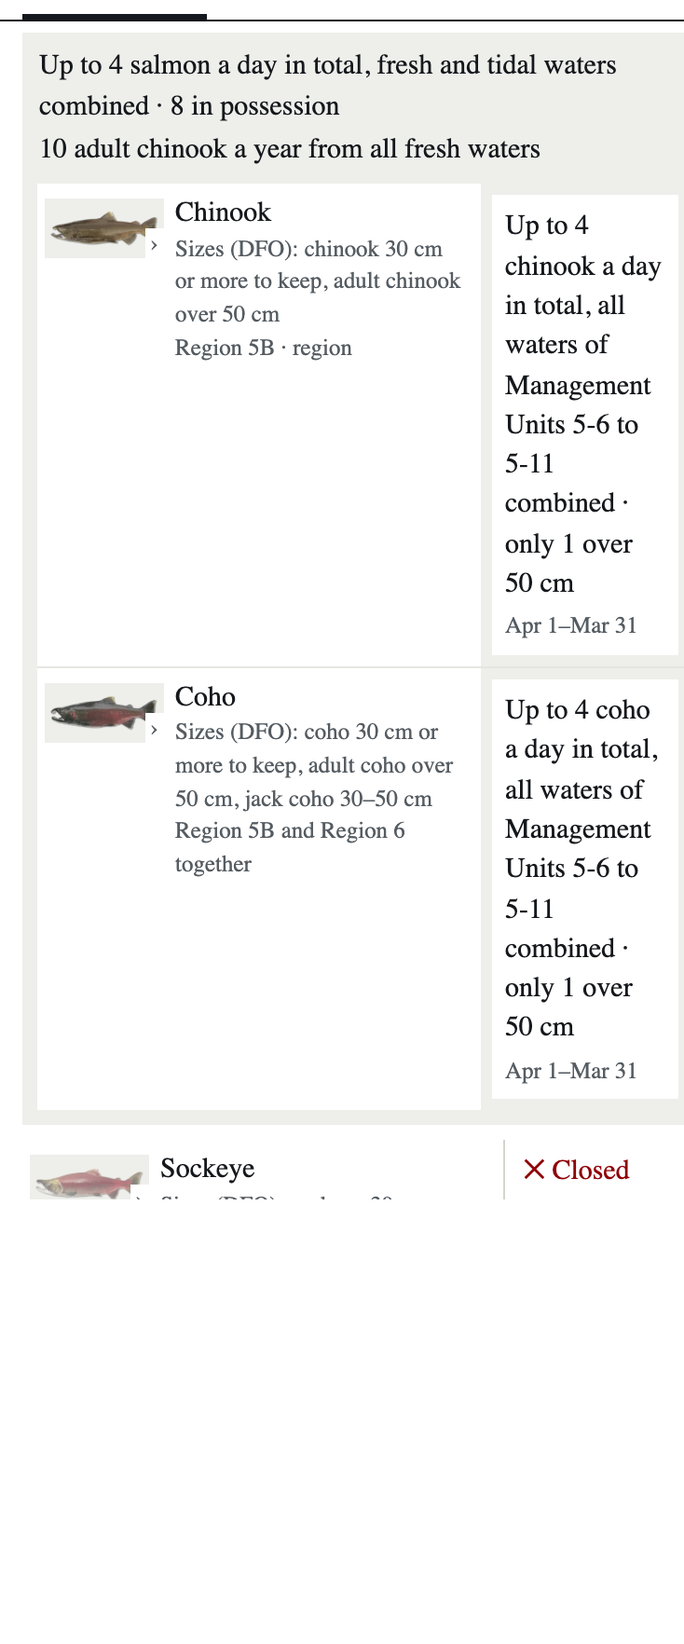
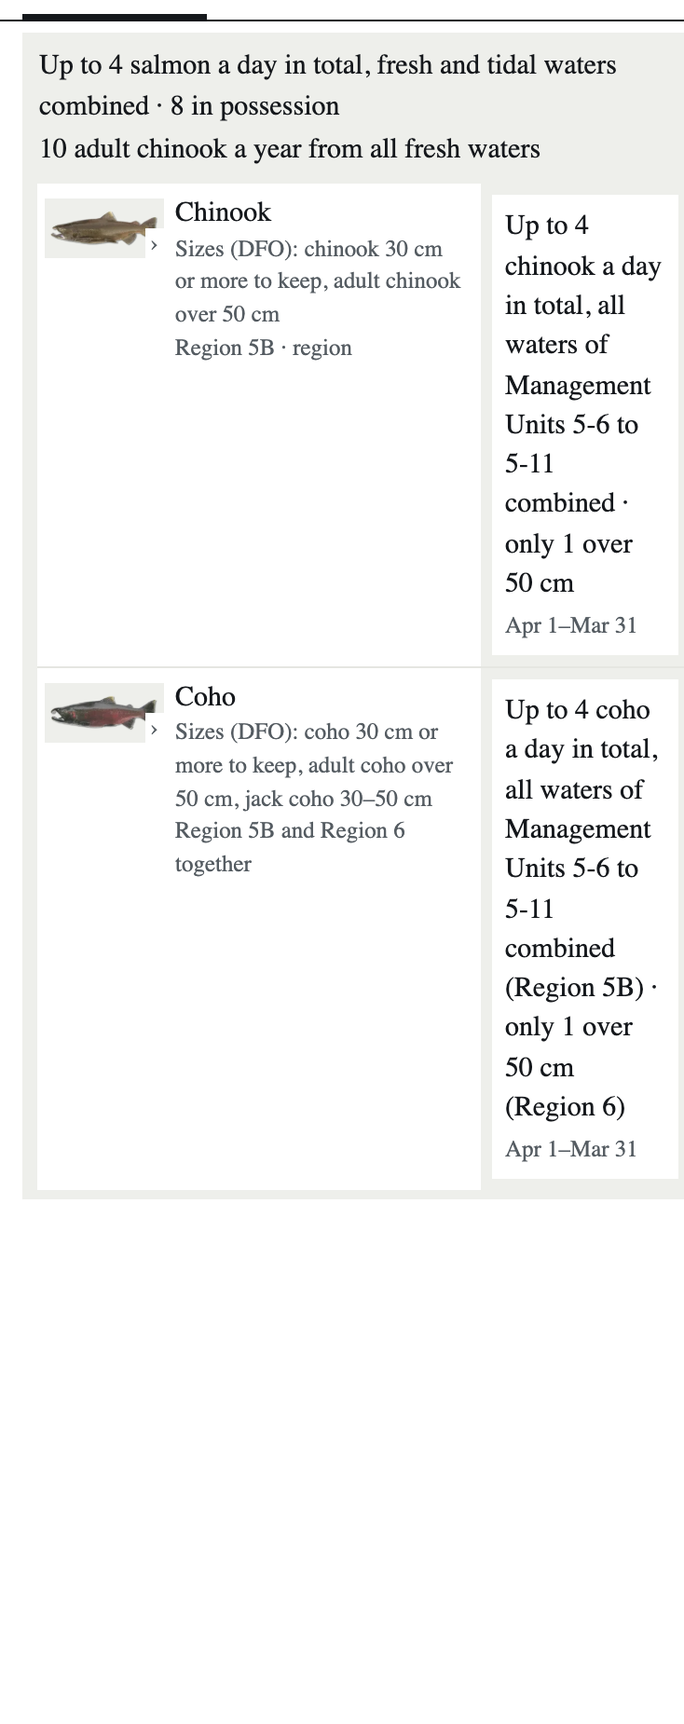
T669 item 3, owner "Name the region": on a mixed strictest line each number names its region
- deliver.salmon: region_label (a group's DFO page slugs); strictest(answers, regions) / stricter_opening(a, b, ra, rb)
  tag each cap with its region; _name_regions ends each tier / kind line of a tree mixed from more than one region
  with "(Region X)"; _caps reads labels back so a third region folds in; a line one region's own is unchanged
- chain_calendar (release), live.compose (feed reference) and salmon_pairs pass each group's region; a pair whose
  names would differ between region pairs keeps the numbers without names (the table is keyed by content)
- tests: the Qualcho line, 3-region fold, hatchery naming both, release and feed pass the same regions (mutant
  killed); app test draws a labeled merged tree. RULINGS Z4a, T669, ledger; after shot re-taken (r-6b6f7a2b4777)

diff --git a/app/packages/core/src/salmonStraddle.test.ts b/app/packages/core/src/salmonStraddle.test.ts
@@ -59,14 +59,15 @@ describe("(T668) a two-region chain under the live feed: `live.compose`, pinned"
   });
 
   it("(T669 item 3) a pair answered by ONE quota tree of both regions' caps is drawn as numbers, never as both words", () => {
-    // the Python's answer for a mix (`stricter_opening` -> `_tree_of`): both regions' words in `t`, the caps in `tree`
+    // the Python answer for a mix (`stricter_opening` -> `_tree_of`): both words in `t`, the caps in `tree`, each number naming
+    // its region (owner 2026-11-20 "Name the region") — the app draws the store's words as they are
     const [a, b] = G.feed.pairs.pairs[0];
-    const merged = { s: "open", t: `${a.t}; ${b.t}`, tree: { node: "tier", id: "t1", tier: "count", n: 2, says: "2 a day", by: 0, species: ["CO"],
-      children: [{ node: "tier", id: "t2", tier: "size", n: 0, says: "none over 50 cm", by: 0, children: [], over_cm: 50 }] } };
+    const merged = { s: "open", t: `${a.t}; ${b.t}`, tree: { node: "tier", id: "t1", tier: "count", n: 2, says: "2 a day (Region 7)", by: 0, species: ["CO"],
+      children: [{ node: "tier", id: "t2", tier: "size", n: 0, says: "none over 50 cm (Region 6)", by: 0, children: [], over_cm: 50 }] } };
     const f = parseSalmonFeed({ ...G.feed, pairs: { ...G.feed.pairs, pairs: [[a, b, merged]] } })!;
     const card = salmonCard(withSalmonFeed(release(), f), { sids: [67], item: null }, JUL);
     const coho = salmonTable(card).species.find((r) => r.code === "CO")!;
-    expect([coho.status, coho.quota?.replace(/ /g, " "), coho.quotaUnread]).toEqual(["open", "2 a day · none over 50 cm", undefined]);
+    expect([coho.status, coho.quota?.replace(/ /g, " "), coho.quotaUnread]).toEqual(["open", "2 a day (Region 7) · none over 50 cm (Region 6)", undefined]);
     // DFO's two lines are the numbers' source, not repeated under the table
     const row = card.rows.find((r) => r.species.includes("CO"))!;
     expect(row.notes.filter((n) => !row.repeats?.includes(n))).toEqual([]);

diff --git a/pipeline/deliver/salmon.py b/pipeline/deliver/salmon.py
@@ -591,7 +591,28 @@ def _cap(sp: List[str], take: int, **kw) -> dict:
     return {"type": "retention_limit", "take": take, "species": sp, **kw}
 
 
-def _caps(v: Mapping) -> Optional[List[dict]]:
+#: (T669 item 3, owner 2026-11-20 "Name the region") on a MIXED strictest line — numbers taken from both regions — each
+#: number's words end with the region it came from: "Up to 4 coho a day in total, … (Region 5B) · only 1 over 50 cm
+#: (Region 6)". A line one region's own stays as DFO's words. The label is part of the store's words (`says`), so the
+#: app draws it as it draws any tree and decides nothing; `_caps` reads it back when a third region folds in.
+_LABEL = re.compile(r" \((Region [^()]+)\)$")
+
+
+def region_label(lids: Iterable[str]) -> str:
+    """A group's region as a merged line names it: its DFO places' page slugs ("5b:region:section" -> "Region 5B"; a
+    rule-book place, `book:…`, names none). "" where none."""
+    slugs = sorted({str(l).split(":", 1)[0] for l in lids if not str(l).startswith("book:")})
+    return f"Region {', '.join(x.upper() for x in slugs)}" if slugs else ""
+
+
+def _said(node: Mapping, region: str) -> Tuple[str, str]:
+    """A node's words without a region label, and its region (the label it carries, else `region`)."""
+    says = str(node.get("says") or "")
+    m = _LABEL.search(says)
+    return (says[:m.start()], m.group(1)) if m else (says, region)
+
+
+def _caps(v: Mapping, region: str = "") -> Optional[List[dict]]:
     """An opening's limits as the freshwater reader's rules (`bundle.read` shape), so two regions' openings are compared
     by the SAME primitives a two-region freshwater section is (`ladder.stricter`, `rules.statement`):
       the count tier                     its daily count;
@@ -603,13 +624,16 @@ def _caps(v: Mapping) -> Optional[List[dict]]:
       a plain kind (folded)              the count's own fish, with its ceiling (the "none over" size tier says it);
       a size tier                        "none over X cm" (take 0 over X), "only k over X cm" (take k over X), a
                                          monthly one with its `period`.
-    None where the number cannot be read (`u`), or the tree holds anything else (both regions' words then stand)."""
+    None where the number cannot be read (`u`), or the tree holds anything else (both regions' words then stand).
+    `region` (the answer's region, `region_label`): each cap carries the region it came from (`region`; a node's own
+    label wins — a merged answer folding in a third region), so a mixed line can name it."""
     tree = v.get("tree")
     if v.get("u") or not tree or tree.get("node", "tier") != "tier" or tree.get("tier") not in ("count", "total") \
             or not isinstance(tree.get("n"), int) or (tree["tier"] == "total") != bool(tree.get("whose")):
         return None
     sp = list(tree.get("species") or [])
-    root = _cap(sp, tree["n"])
+    tag = lambda node: ({"region": r} if (r := _said(node, region)[1]) else {})        # noqa: E731
+    root = _cap(sp, tree["n"], **tag(tree))
     out = [root]
     hatchery = wild = False
     for c in tree.get("children") or ():
@@ -620,23 +644,28 @@ def _caps(v: Mapping) -> Optional[List[dict]]:
             if c.get("folded") and c["n"] == tree["n"] and not name.startswith(_WILD_KIND):
                 if name.startswith(_HATCHERY_KIND):
                     hatchery = True
-                    out.append(_cap(sp, 0, origin="wild"))
+                    out.append(_cap(sp, 0, origin="wild", **tag(tree)))
+                continue
+            if not c.get("folded") and name.startswith(_HATCHERY_KIND) and c["n"] == tree["n"]:
+                hatchery = True                     # a merged pool's hatchery-marked kind, said on its own line
+                out.append(_cap(sp, 0, origin="wild", **tag(c)))
                 continue
             if c.get("folded") or not name.startswith(_WILD_KIND):
                 return None
             wild = True
-            out.append(_cap(sp, c["n"], origin="wild"))
+            out.append(_cap(sp, c["n"], origin="wild", **tag(c)))
             continue
         if c.get("node") != "tier" or c.get("tier") != "size" or c.get("children") \
                 or c.get("period") not in (None, "monthly") or not isinstance(c.get("over_cm"), int) \
                 or not isinstance(c.get("n"), int):
             return None
         band = {"min_cm": c["over_cm"], **({"take": 0} if c["n"] == 0 and not c.get("period") else {})}
-        out.append(_cap(sp, c["n"], lengths=[band], **({"period": c["period"]} if c.get("period") else {})))
+        out.append(_cap(sp, c["n"], lengths=[band], **({"period": c["period"]} if c.get("period") else {}), **tag(c)))
     if hatchery and wild:
         return None
     if tree["tier"] == "total":
-        root.update(whose=tree["whose"], says=tree.get("says") or "", hatchery=hatchery)
+        root.update(whose=tree["whose"], says=_said(tree, "")[0], hatchery=hatchery and any(
+            k.get("folded") and str(k.get("name") or "").startswith(_HATCHERY_KIND) for k in tree.get("children") or ()))
     return out
 
 
@@ -710,6 +739,7 @@ def _tree_of(caps: List[dict]) -> Optional[dict]:
             pool["children"] = [{**k, "folded": False} if k.get("node") == "kind" and k.get("folded") else k
                                 for k in tree["children"]]
         tree = pool
+    _name_regions(tree, caps, pools, plain, wild, hatchery)
     seq = iter(range(1, 1000))
 
     def ids(t: dict) -> dict:          # the tiers numbered in the order said (pre-order), as `_one` numbers them
@@ -718,20 +748,57 @@ def _tree_of(caps: List[dict]) -> Optional[dict]:
     return ids(tree)
 
 
-def stricter_opening(a: dict, b: dict) -> dict:
+def _name_regions(tree: dict, caps: List[dict], pools: List[dict], plain: List[dict], wild: List[dict],
+                  hatchery: bool) -> None:
+    """(owner 2026-11-20 "Name the region") a tree of caps from MORE THAN ONE region: each tier and each kind said on its
+    own line ends with the region(s) its number came from (`_LABEL`); the count says hatchery-marked only in its own
+    words, so it names that region too. Caps of one region (or with no region given): the words as built."""
+    if len({c.get("region") for c in caps}) < 2 or not all(c.get("region") for c in caps):
+        return
+
+    def name(node: dict, *cs) -> None:
+        regs = sorted({c["region"] for c in cs if c})
+        node["says"] = f"{node['says']} ({', '.join(regs)})"
+    h = wild[0] if hatchery else None
+    top = tree
+    if pools:
+        if plain:
+            name(top, pools[0])
+            top = top["children"][0]
+            name(top, plain[0], h)
+        else:
+            folded = any(k.get("node") == "kind" and k.get("folded") and str(k.get("name")).startswith(_HATCHERY_KIND)
+                         for k in top["children"])
+            name(top, pools[0], h if folded else None)
+    else:
+        name(top, plain[0], h)
+    sizes = [c for c in caps if c.get("lengths")]
+    for k in top["children"]:
+        if k.get("node") == "kind" and not k.get("folded"):
+            name(k, wild[0])
+        elif k.get("node") == "tier":
+            got = [c for c in sizes if c["lengths"][0]["min_cm"] == k.get("over_cm") and c["take"] == k.get("n")
+                   and c.get("period") == k.get("period")]
+            if got:
+                name(k, *got)
+
+
+def stricter_opening(a: dict, b: dict, ra: str = "", rb: str = "") -> dict:
     """(owner 2026-11-11, RULINGS Z4a: "straddles should always take the most strict rules from both regions") two
     regions' openings of one species and day, read as the freshwater reader reads two regions' quotas (`_both_bind`):
     where the caps that bind are one region's own, that region's opening; (T669 item 3) where they mix (a lower count
     from one, a size cap from the other, a pool, a hatchery or wild share), ONE quota tree of the caps that bind
     (`_tree_of`) — numbers, beside both regions' words (`t`); where a number cannot be read, or the caps are not one
-    tree, BOTH regions' words with no number (`u`) — the app then shows DFO's words, and no limit is dropped."""
+    tree, BOTH regions' words with no number (`u`) — the app then shows DFO's words, and no limit is dropped.
+    `ra` / `rb`: the two answers' regions (`region_label`); given, a mixed tree names the region of each number."""
     if a == b:
         return a
-    ca, cb = _caps(a), _caps(b)
+    ca, cb = _caps(a, ra), _caps(b, rb)
     tree = None
     if ca is not None and cb is not None:
         bind = _moot(_both_bind(ca, cb))
-        key = lambda xs: sorted(json.dumps(x, sort_keys=True) for x in xs)       # noqa: E731
+        key = lambda xs: sorted(json.dumps({k: v for k, v in x.items() if k != "region"}, sort_keys=True)  # noqa: E731
+                                for x in xs)
         if key(bind) == key(_moot(ca)):
             return a
         if key(bind) == key(_moot(cb)):
@@ -745,17 +812,19 @@ def stricter_opening(a: dict, b: dict) -> dict:
     return out
 
 
-def strictest(answers: Sequence[Optional[dict]]) -> dict:
+def strictest(answers: Sequence[Optional[dict]], regions: Optional[Sequence[str]] = None) -> dict:
     """The most strict of each region's answer for one species and day (regions by number); a region saying nothing
     that day is closed to it (`NOT_LISTED`: closed unless DFO opens it). Two openings: the stricter limit
-    (`stricter_opening`). The live feed composes the same (`regs.dfo_salmon.live.compose`)."""
-    best = None
-    for v in answers:
-        v = v or NOT_LISTED
+    (`stricter_opening`; `regions`, each answer's `region_label`, name the regions on a mixed line). The live feed
+    composes the same (`regs.dfo_salmon.live.compose`)."""
+    best, rb = None, ""
+    for i, v in enumerate(answers):
+        v, r = v or NOT_LISTED, (regions[i] if regions else "")
         if best is None or STRICT.index(v["s"]) < STRICT.index(best["s"]):
-            best = v
+            best, rb = v, r
         elif v["s"] == best["s"] == "open":
-            best = stricter_opening(best, v)
+            got = stricter_opening(best, v, rb, r)
+            best, rb = got, (rb if got is best else r if got is v else "")
     return best
 
 
@@ -817,7 +886,7 @@ def closed_by_header(sp_runs: Sequence[Sequence[int]], verdicts: Sequence[dict])
 
 def chain_calendar(chain: Sequence[Sequence[dict]], verdicts: _Interner, gears: _Interner,
                    undrawn_closed: bool = True, speaks: bool = False,
-                   groups: Optional[Sequence[Sequence[int]]] = None) -> dict:
+                   groups: Optional[Sequence[Sequence[int]]] = None, labels: Optional[Sequence[str]] = None) -> dict:
     """One chain's year: per species runs of a verdict index (`NOT_LISTED` where nothing opens it), the gear runs (-1:
     no gear line), the map-status runs. (T372, owner 2026-11-04: the trout way) a DFO place on the water not drawn yet
     never paints the map — it is the card's caveat, as an undrawn trout rule is (`status_index`: it never colours a
@@ -827,7 +896,7 @@ def chain_calendar(chain: Sequence[Sequence[dict]], verdicts: _Interner, gears: 
     caveat's "in force today" — the card lists it first on those days. (T668) `groups` (a chain on a section in two
     regions, its places of each region as indices into `chain`): each group cascades on its own and the most strict
     answer per fish speaks (`strictest`, two openings by their limits); the gear lines are every group's
-    (`both_gear`) — as the live feed composes them (`live.compose`)."""
+    (`both_gear`) — as the live feed composes them (`live.compose`). `labels`: each group's `region_label`."""
     per_sp: List[List[int]] = [[] for _ in SPECIES]
     gear: List[int] = []
     shut: List[int] = []
@@ -835,7 +904,7 @@ def chain_calendar(chain: Sequence[Sequence[dict]], verdicts: _Interner, gears: 
     subs = [[chain[i] for i in g] for g in groups] if groups else None
     for md in DAYS:
         if subs:
-            vs = [strictest([verdict_on(c, sp, md) for c in subs]) for sp in SPECIES]
+            vs = [strictest([verdict_on(c, sp, md) for c in subs], labels) for sp in SPECIES]
             g = both_gear([gear_on(c, md) for c in subs])
             o = both_gear([closures_on(c, md) for c in subs])
         else:
@@ -1100,7 +1169,8 @@ def build(entry_files: Mapping[str, object], feeds: Mapping[str, dict], placed: 
             rs = sorted({locs[l][0] for l in key + uk})
             cal = chain_calendar([rules_of[l] for l in key], verdicts, gears,
                                  undrawn_closed=all(all(r.get("header_note") for r in rules_of[l]) for l in uk),
-                                 speaks=speaks, groups=groups or None)
+                                 speaks=speaks, groups=groups or None,
+                                 labels=[region_label(key[i] for i in g) for g in groups] or None)
             # (T668 fix 4, owner 2026-11-11) `a`: per species the place that answers (an index into `l`), so the card
             # names its region and its level of DFO's cascade (`salmon_who`; the places are payload `p`)
             who = {"a": answering_places(cal["sp"], [own_sp(l) for l in key], groups or None,

diff --git a/pipeline/tests/test_strictest_cases.py b/pipeline/tests/test_strictest_cases.py
@@ -230,3 +230,46 @@ def test_mutation_a_reader_that_never_displaces_fails_the_table(monkeypatch):
     monkeypatch.setattr(sys.modules[__name__], "stricter", lambda a, b: False)
     wrong = [c[0] for c in CASES if not isinstance(c[5], dict) and c[5] != "both" and fresh(c[1], c[2]) != c[5]]
     assert len(wrong) >= 4
+
+
+def test_t669_name_the_region_on_a_mixed_line():
+    """(owner 2026-11-20 "Name the region") a MIXED line — numbers from both regions — says each number's region; a line
+    taken whole from one region stays DFO's words. Qualcho Creek (5B pool + Region 6's size cap). A third region folds
+    in with the labels read back. MUTATION: `_name_regions` a no-op — the coho line names no region and this fails."""
+    co = opening(4, "4 per day, only 2 over 50 cm", pooled=POOL, over=[(50, 2)])
+    six = opening(4, "4 per day, only 1 over 50 cm", over=[(50, 1)])
+    regions = ["Region 5B", "Region 6"]
+    got = S.strictest([co, six], regions)
+    assert Q.words(got["tree"]) == ("Up to 4 coho a day in total, all waters of Management Units 5-6 to 5-11 combined "
+                                    "(Region 5B) · only 1 over 50 cm (Region 6)")
+    own = opening(4, "4 per day, only 1 over 50 cm", pooled=POOL, over=[(50, 1)])
+    assert S.strictest([own, opening(4, "4, only 1 over 65", over=[(65, 1)])], regions) is own
+    assert "Region" not in Q.words(S.strictest([co, six])["tree"])          # no regions given: no names
+    three = S.strictest([co, six, opening(3, "3 a day")], [*regions, "Region 7"])
+    assert Q.words(three["tree"]) == ("Up to 4 coho a day in total, all waters of Management Units 5-6 to 5-11 combined "
+                                      "(Region 5B) · 3 a day (Region 7) · only 1 over 50 cm (Region 6)")
+    hatch = S.strictest([opening(2, "2 hatchery marked", hatchery=True), opening(1, "1 a day")], regions)
+    assert Q.words(hatch["tree"]) == "1 a day, hatchery-marked only (Region 5B, Region 6)"
+    assert S.region_label(["5b:region:section", "book:z5:x::y"]) == "Region 5B"
+
+
+def test_t669_the_release_and_the_live_feed_name_the_same_regions(monkeypatch):
+    """`chain_calendar` (the release) and `live.compose` (the feed, the pair table's reference) hand `strictest` the same
+    group regions (`region_label` of each group's places). MUTATION: either side without its labels fails here."""
+    from pipeline.regs.dfo_salmon import live as L
+    from pipeline.tests.test_t668_salmon_regions import _build, _chain_of, _d3_world
+    locs, rules, placed, reg = _d3_world()
+    payload, secs = _build(locs, rules, placed, reg)
+    c = _chain_of(payload, secs, 67)
+    seen = []
+    real = S.strictest
+    monkeypatch.setattr(S, "strictest", lambda answers, regions=None: (seen.append(tuple(regions or ())),
+                                                                       real(answers, regions))[1])
+    v, g = S._Interner(), S._Interner()
+    v(S.NOT_LISTED)
+    cals = {l: L.location_calendar(rules[l], v, g) for l in c["l"]}
+    L.compose(c["l"], cals, v.items, groups=c["s"], intern=v, gears=g.items, gear_intern=g)
+    fed = set(seen)
+    seen.clear()
+    _build(locs, rules, placed, reg)
+    assert fed == {("Region 6", "Region 7")} and ("Region 6", "Region 7") in set(seen)

diff --git a/pipeline/deliver/salmon_pairs.py b/pipeline/deliver/salmon_pairs.py
@@ -98,13 +98,20 @@ def pairs(chains: List[dict], rules_of: Dict[str, List[dict]], static: Optional[
             for d in range(len(S.DAYS)):
                 ans = [V.items[next((x for x in (L._at(cal[lids[j]]["sp"][k], d) for j in g) if x >= 0), 0)]
                        for g in groups]
-                best = ans[0]
-                for v in ans[1:]:
+                labels = [S.region_label(lids[j] for j in g) for g in groups]
+                best, rb = ans[0], labels[0]
+                for v, r in zip(ans[1:], labels[1:]):
                     if v["s"] == best["s"] == "open" and v != best:
                         key = (_key(best), _key(v))
+                        said = S.stricter_opening(best, v, rb, r)
                         if key not in got:
+                            got[key] = [best, v, said]
+                        elif got[key][2] != said:
+                            # (T669 item 3) the same two openings in another region pair name other regions: the
+                            # table keys by content, so it holds the numbers without names (never a wrong name)
                             got[key] = [best, v, S.stricter_opening(best, v)]
-                    best = S.strictest([best, v])
+                    nxt = S.strictest([best, v], [rb, r])
+                    best, rb = nxt, (rb if nxt is best else r if nxt is v else "")
     return [got[k] for k in sorted(got)], sorted(missing)
 
 

diff --git a/pipeline/regs/dfo_salmon/live.py b/pipeline/regs/dfo_salmon/live.py
@@ -174,6 +174,8 @@ def compose(lids: Sequence[str], locs: Mapping[str, dict], verdicts: Sequence[di
     list added through `gear_intern`, `gears` the feed's). A merge with no interner to add it to STOPS (never a guess)."""
     subs = [[locs[lids[i]] for i in g if lids[i] in locs] for g in groups] if groups else \
         [[locs[l] for l in lids if l in locs]]
+    # (T669 item 3, owner 2026-11-20) each group's region, named on a mixed line (`deliver.salmon.region_label`)
+    labels = [S.region_label(lids[i] for i in g) for g in groups] if groups else None
     per_sp: List[List[int]] = [[] for _ in S.SPECIES]
     gear: List[int] = []
     fish: List[int] = []
@@ -183,7 +185,7 @@ def compose(lids: Sequence[str], locs: Mapping[str, dict], verdicts: Sequence[di
     def one(ixs: List[int]) -> int:
         if len(ixs) == 1:
             return ixs[0]
-        got = S.strictest([verdicts[i] for i in ixs])
+        got = S.strictest([verdicts[i] for i in ixs], labels)
         hit = next((i for i in ixs if verdicts[i] is got), None)
         if hit is not None:
             return hit

diff --git a/pipeline/docs/RULINGS.md b/pipeline/docs/RULINGS.md
@@ -56,7 +56,7 @@ Never cite a PDF page without writing "PDF p.".
 | Z2 | A region-wide rule that says "except certain waters / excluding X Lake" binds the WHOLE region; the excepted water's own row overrides it, and the exclusion is not encoded. | 2026-09-24 | Region 2's bass rule binds Mill Lake too; Mill Lake's row speaks over it. Zone B kokanee and the Peace River worked the same way until T623 F6 (2026-11-11): the Peace from Dinosaur Lake up to the Williston Lake outlet has no Peace row to override the stream release, so p.64's "except Peace River" is now encoded as `outside_items: [gnis:14619]` on `z7b:daily_quotas` `species_quotas.r5`. | 21, 64 | Curated data; `test_zone_decisions.py::test_the_2020_restructure_holds_the_whole_region`; `test_rulings_pinned.py::test_z2_region_2s_bass_rule_binds_mill_lake_and_the_lakes_row_speaks_over_it` (T99), `::test_f6_the_peace_river_is_outside_zone_bs_kokanee_stream_release`. |
 | Z3 | A water takes the zone rules of the region it lies in; a "See X" pointer row never moves it into X's region. | 2026-09-25 | Mara Lake keeps its own region's base, although its row says "See Shuswap Lake". | 68 | `test_region_homes.py::test_mara_lake_takes_both_regions_bases_and_keeps_region_8s_row`, `test_see_pointers.py::test_every_pointer_lands` |
 | Z4 | A section that lies in two regions — a river piece drawn across the line or a lake — takes BOTH regions' rules: both zone tables and both regions' per-region rows (each region's polygon must hold more than 5 m (`SLIVER_M`) of it; a touch is not membership). Per fish, the stricter rule wins — EVERY CAP, the total and each sub-cap ("from streams", "Dolly Varden/bull trout and/or lake trout", seasonal stream caps, the over-50 cm caps), is the stricter of the two regions', and a cap over fewer fish is another cap (both bind), never a stricter copy of a wider one; the card shows the combined group and its badge names both regions. The home region (the larger share) is still measured, for display only. | 2026-10-24 (owner, T183: "those straddle pieces are supposed to get both regions regulations" → "Both regions (reverse T115)"; stricter of every cap, T183 follow-ups; lakes since 2026-09-29) | Ahbau Lake and Mara Lake take both tables. The Fraser piece 356364114:418405 (home Region 3, inside Region 5's polygon too) takes Region 3's and Region 5's tables and the Fraser's Region 3 and Region 5 rows. | — | `registry.regions.STRADDLERS_IN_EVERY_REGION`, `regions.holds`, `read.effective_rules` step 6 (`ladder.A_NARROWER_CAP_NEVER_DISPLACES_A_WIDER`), `rows.groups.STRADDLERS_TAKE_BOTH_TABLES_CAPS`, `rows.conds.A_KIND_NEVER_SAYS_MORE_THAN_ITS_OWN_ANSWER` (T678: a kind row never says more than the reader keeps of that fish alone), `card.TWO_TABLES_SIZE_CAPS_BOTH_BIND`, badge `scope.both`; `test_t183_two_regions_card.py` (Fraser 3+5 → 2 from streams; Big Bend 6+7A and Contact 6+7B → 2; West Road 5+6 → 1; Copper Creek 2+8 → 1 over 50 cm; the Qualcho Creek pond 5+6 → brook and lake trout 2, brown, cutthroat and rainbow trout 1 between them July 1-Oct 31); `test_one_region_membership.py::test_a_per_region_row_binds_a_piece_straddling_into_its_region`, `::test_a_region_holds_a_piece_only_past_a_sliver`, `test_region_homes.py::test_ahbau_and_mara_the_most_strict_applies` |
-| Z4a | DFO salmon follows Z4. A section in two regions takes BOTH regions' DFO places: each region's places cascade on their own, and per fish and day the most strict answer speaks (closed > catch and release > unreadable season > open). Two openings are read as Z4 reads two regions' quotas, with the same functions: each limit (the daily count, each size cap, a count pooled across a set of waters, hatchery-marked only, an unmarked share — T669 item 3) is a cap; of two caps saying the same thing (`rules.statement`) the stricter binds (`ladder.stricter`), and every other cap binds beside it. A pool counts every water of its set, so a count of this water alone never displaces it (Z4's narrower cap never displaces a wider, over waters); a pool at or under that count does. Where the caps that bind are one region's own, that region's opening shows; where they mix, ONE quota of the caps that bind shows, in numbers (T669 item 3, 2026-11-20), with both regions' words beside it; where a number cannot be read, both regions' words stand with no number, so no limit is dropped. Both regions' gear and method lines show, each once. An undrawn DFO place stays in its own region; a region-wide DFO place binds its region's members only. | 2026-11-11 (owner, T668: "Some streams genuinely have 2 regions like the parts of the Fraser that straddle boundaries"; "Straddles should always take the most strict rules from both regions") | Big Bend-type 6/7A straddlers under Region 6 E (opens chinook) and the Region 7 default (closed): closed. 2 a day against 4 a day none over 50 cm: "2 a day · none over 50 cm". Region 5B's 4 coho pooled over MUs 5-6 to 5-11, only 2 over 50 cm, against Region 6's 4, only 1 over 50 cm: the pool, only 1 over 50 cm. | Z4 | `deliver.salmon.strictest` / `stricter_opening` (`_caps`, `_both_bind` over `ladder.stricter` + `rules.statement`, `_tree_of`) / `both_gear` / `tighter_hours`, chain `s` and `h`; `regs.dfo_salmon.live.compose`; `test_t668_salmon_regions.py`, `test_strictest_cases.py` |
+| Z4a | DFO salmon follows Z4. A section in two regions takes BOTH regions' DFO places: each region's places cascade on their own, and per fish and day the most strict answer speaks (closed > catch and release > unreadable season > open). Two openings are read as Z4 reads two regions' quotas, with the same functions: each limit (the daily count, each size cap, a count pooled across a set of waters, hatchery-marked only, an unmarked share — T669 item 3) is a cap; of two caps saying the same thing (`rules.statement`) the stricter binds (`ladder.stricter`), and every other cap binds beside it. A pool counts every water of its set, so a count of this water alone never displaces it (Z4's narrower cap never displaces a wider, over waters); a pool at or under that count does. Where the caps that bind are one region's own, that region's opening shows; where they mix, ONE quota of the caps that bind shows, in numbers (T669 item 3, 2026-11-20), each number naming the region it came from ("… (Region 5B) · only 1 over 50 cm (Region 6)", owner 2026-11-20: "Name the region"), with both regions' words beside it; where a number cannot be read, both regions' words stand with no number, so no limit is dropped. Both regions' gear and method lines show, each once. An undrawn DFO place stays in its own region; a region-wide DFO place binds its region's members only. | 2026-11-11 (owner, T668: "Some streams genuinely have 2 regions like the parts of the Fraser that straddle boundaries"; "Straddles should always take the most strict rules from both regions") | Big Bend-type 6/7A straddlers under Region 6 E (opens chinook) and the Region 7 default (closed): closed. 2 a day against 4 a day none over 50 cm: "2 a day · none over 50 cm". Region 5B's 4 coho pooled over MUs 5-6 to 5-11, only 2 over 50 cm, against Region 6's 4, only 1 over 50 cm: the pool (Region 5B), only 1 over 50 cm (Region 6). | Z4 | `deliver.salmon.strictest` / `stricter_opening` (`_caps`, `_both_bind` over `ladder.stricter` + `rules.statement`, `_tree_of`) / `both_gear` / `tighter_hours`, chain `s` and `h`; `regs.dfo_salmon.live.compose`; `test_t668_salmon_regions.py`, `test_strictest_cases.py` |
 | Z4b | **(Owner 2026-11-12, T668 option 2: "we want these to always resolve on their own".)** Under the live feed a straddler's two differing openings resolve as the release does (Z4a): the Python's answer for every such pair of the live release's two-region chains, read from the current DFO rows (`deliver.salmon_pairs`), is staged with the inputs (`private/feeds/dfo/pairs.json`), carried by the feeds worker into the feed (`pairs`) and looked up by the app by both verdicts' whole content. A pair the table does not hold (a limit DFO changed since the last sync, or no table) keeps both regions' words with no number: never looser. | 2026-11-12 | Region 6 E 4 coho a day beside Region 7's 2: Region 7's 2, in the release and under the feed. | Z4a | `deliver.salmon_pairs`, `sync_inputs` `dfo-pairs`, worker `dfo/live.ts` `readPairs`, core `salmonFeed.ts` `strictestIx`; `salmonStraddle.golden.ts` (`test_t668_salmon_who.py`) |
 | Z5 | Water rows are region-agnostic: a row and its tributary walk cross region lines. Only zone and watershed rows are clipped to their region. The Fraser has one row per region. | 2026-09-26 | The Similkameen row reaches its Region 3 part. The Fraser's Region 5 row stops at Region 5. | — | `test_placement_rulings.py::test_a_water_row_walks_across_the_region_line`, `::test_a_per_region_row_still_stops_at_its_line` |
 | Z6 | A whole-watershed row binds the FWA basin intersected with its region, not just a stream walk. It walks the whole watershed first, then clips to the region. A codeless lake takes the basin of the named-watershed polygon that contains it. | 2026-09-24 | "Fraser watershed" in Region 6 binds every Region 6 water in the Fraser basin, lakes included. | 49 | `test_watershed_parts.py::test_lakes_come_with_the_watershed_even_codeless_ones` |

diff --git a/handoff/PLAN/app-integration/tickets/README.md b/handoff/PLAN/app-integration/tickets/README.md
@@ -125,7 +125,7 @@ reads both files; a ticket closed here moves there once its lane is finished wit
 | T661 | Two tests red after the hardening lanes (precheck test's session.sh half; review-gate live-tree test); then install the parked heavy.sh gate | PARTIAL | d12bb0108, 8c6b53935 | left (Claude): install the parked heavy.sh gate (T535's, item 3) |
 | T667 | Tests that grow with the app: fewer hand updates per release and per feature (audit and design first, Fable) | IN PROGRESS (slices 1–7 done; slice 8 steps 1–3 done: mini release r-0266d965cfb6 committed c9f050557, step 4 first batch 1c1609e51; left (Claude): step 4 rest — ~36 app test files on openRegsFixture*, toy-bundle pipeline tests, page oracle on the mini release, shrink the regs fixture) | 9bdc5ea2e, 5e8d817d9, 716999ebc, 0f7b29678, c79b4516b, fb91259ef, 5618e63bc, 3e933cc04, 34a4e0f61, afb6a5eda, 26535857f, 1e924f612, 424a4be66, acd561469, 4a7c92f10, 1cb204a3f, c9f050557, 1c1609e51 | owner 2026-11-11; closed-testing run; with T666 |
 | T668 | Audit: a DFO place covering one river stretch in more than one region (Fraser, Regions 2 and 3) | PARTIAL | 20afd21e6, dfb4ea7c1, d199f0d4d, c9488453c | owner 2026-11-11; audit in T668-audit.md; fixes 1–3, Z4a, app half + fix 4 and option 2 (c9488453c, RULINGS Z4b) built; pairs live (staging 2026-11-18 'dfo-pairs ok'); left (Claude): fix 5 hygiene; owner: OWNER-TODO "T668 salmon places from two regions on one stretch" (phone check of that release) |
-| T669 | One "strictest of both regions" for salmon and freshwater straddlers | IN PROGRESS | 91398f801, 28fdf30fa | owner 2026-11-11 via T668; item 1 done 91398f801; item 2 DROPPED (owner 2026-11-20); item 3 built on lane/l9-strictest 28fdf30fa (pools, hatchery-marked, unmarked shares as caps; a mix is one quota tree, numbers); left (Claude): review + merge, ships with the next data release |
+| T669 | One "strictest of both regions" for salmon and freshwater straddlers | IN PROGRESS | 91398f801, 28fdf30fa | owner 2026-11-11 via T668; item 1 done 91398f801; item 2 DROPPED (owner 2026-11-20); item 3 built on lane/l9-strictest 28fdf30fa (pools, hatchery-marked, unmarked shares as caps; a mix is one quota tree, numbers, each naming its region — owner 11-20 "Ship it", "Name the region"); left (Claude): review + merge, ships with the next data release |
 | T674 | After "Save alert" the confirmation stays on screen; a saved spot off the map has no screen-reader button | IN PROGRESS (both built, component tests; left (Claude): emulator check on the next APK) | 04572e8d3 | T603 emulator run 2026-11-11; (a) `AlertMe` scrolls its block into the pane's view after a save; (b) `spotsInView`, both maps |
 | T676 | The release and the live feed read a DFO date cell the same way; a feed format bump does not strand an older app | IN PROGRESS — item 2 merged (27e98e4eb), staging feeds worker deployed 2026-11-20 07:18; left (Claude): next app build | 2c316de53, 243b46352, 719fd569c, b1f6f23dc, 4f591c31a, 4bc03ac14 | items 3+4 done (entries join + header in the DFO vectors, a worker reconcile drift fixed; index HTTP refusal reported); item 1 done on the owner's 2026-11-12 answer; item 2 built b1f6f23dc: every feed index carries minAppVersion (FEED_MIN_APP, one table), core feedGate in every reader, an older app keeps its capture + the strong update prompt (gate.test.ts) |
 | T677 | Next rebuild leftovers: item names follow piece count, a park rule gained 33 m, binding diff by place, the 32 new held lines on a map page, lines ending at the sea | PARTIAL — left (Claude): items 1, 3 | — | items 4–7 closed by T678/T685 (RULINGS E21); item 2 answered 2026-11-12 (keep the Ucona 33 m as built) |

diff --git a/handoff/PLAN/app-integration/tickets/T669-one-strictest-for-salmon-and-freshwater.md b/handoff/PLAN/app-integration/tickets/T669-one-strictest-for-salmon-and-freshwater.md
@@ -80,3 +80,22 @@ Shots (web, 390 px, Jan 15, release only, no live feed): `T669-shots/before-qual
 `T669-shots/after-qualcho-creek-jan15.png`.
 Under the live feed the app reads the pair table. `deploy/staging/upload.sh` re-stages it (sync-inputs `dfo-pairs`)
 with the release, so the feed path changes on that upload.
+
+## Owner 2026-11-20: "Ship it" + "Name the region"
+The owner asked why coho reads "only 1 over 50 cm" when Region 5B says 2: that cap is Region 6's. His answer:
+"Name the region". On a MIXED line (numbers taken from both regions) each number now names the region it came from:
+"Up to 4 coho a day in total, all waters of Management Units 5-6 to 5-11 combined (Region 5B) · only 1 over 50 cm
+(Region 6)". A line taken whole from one region stays as it was (chinook on Qualcho reads Region 5B's own).
+- How it works: `deliver.salmon.region_label` gives each group's region from its places' page slugs (a `book:` place
+  names none). `strictest(answers, regions)` and `stricter_opening(a, b, ra, rb)` tag each cap with its region.
+  `_name_regions` adds " (Region …)" to the words (`says`) of each tier or kind line in a tree mixed from more than one
+  region. A count that is hatchery-marked only because of the other region names both regions. `_caps` reads the
+  labels back, so a third region folds in correctly.
+- Who passes the regions: `chain_calendar` (the release), `live.compose` (the feed reference) and
+  `salmon_pairs.pairs` all pass them. If the same two openings in another region pair would name other regions, the
+  table holds the numbers with no names (the table is keyed by content), never a wrong name.
+- The app draws the stored words as they are: no app code change and no format bump.
+- Tests: `test_t669_name_the_region_on_a_mixed_line` (the `_name_regions` no-op mutant fails it) and
+  `test_t669_the_release_and_the_live_feed_name_the_same_regions`. The app test now draws a labeled merged tree.
+  RULINGS Z4a amended.
+- Picture: the Jan 15 after shot is re-taken (`T669-shots/after-qualcho-creek-jan15.png`, side release r-6b6f7a2b4777, which differs from r-3c76ec6cf0d4 only on chain 300).
